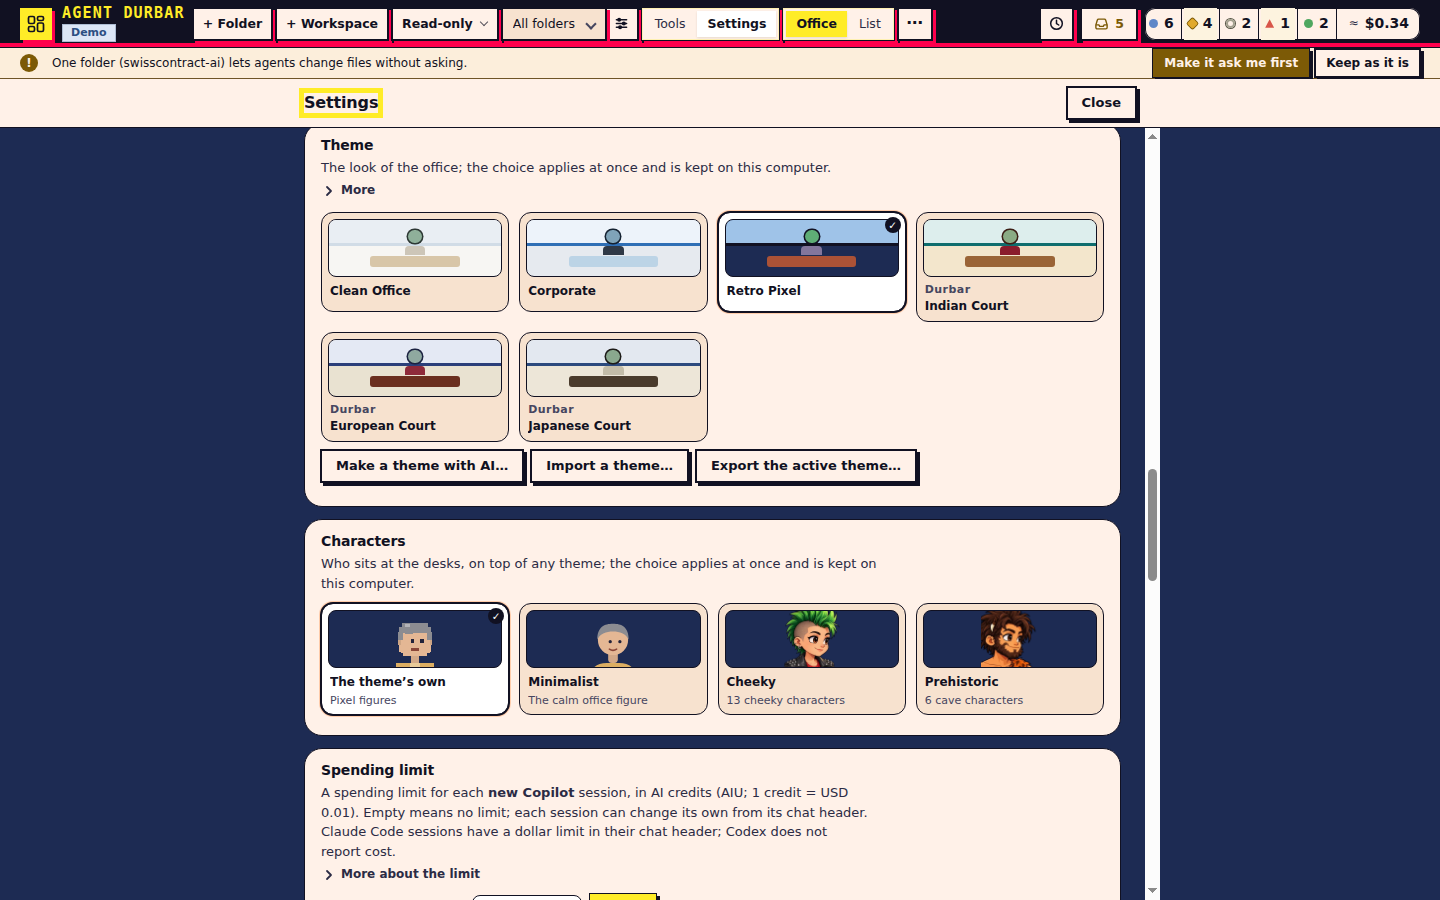
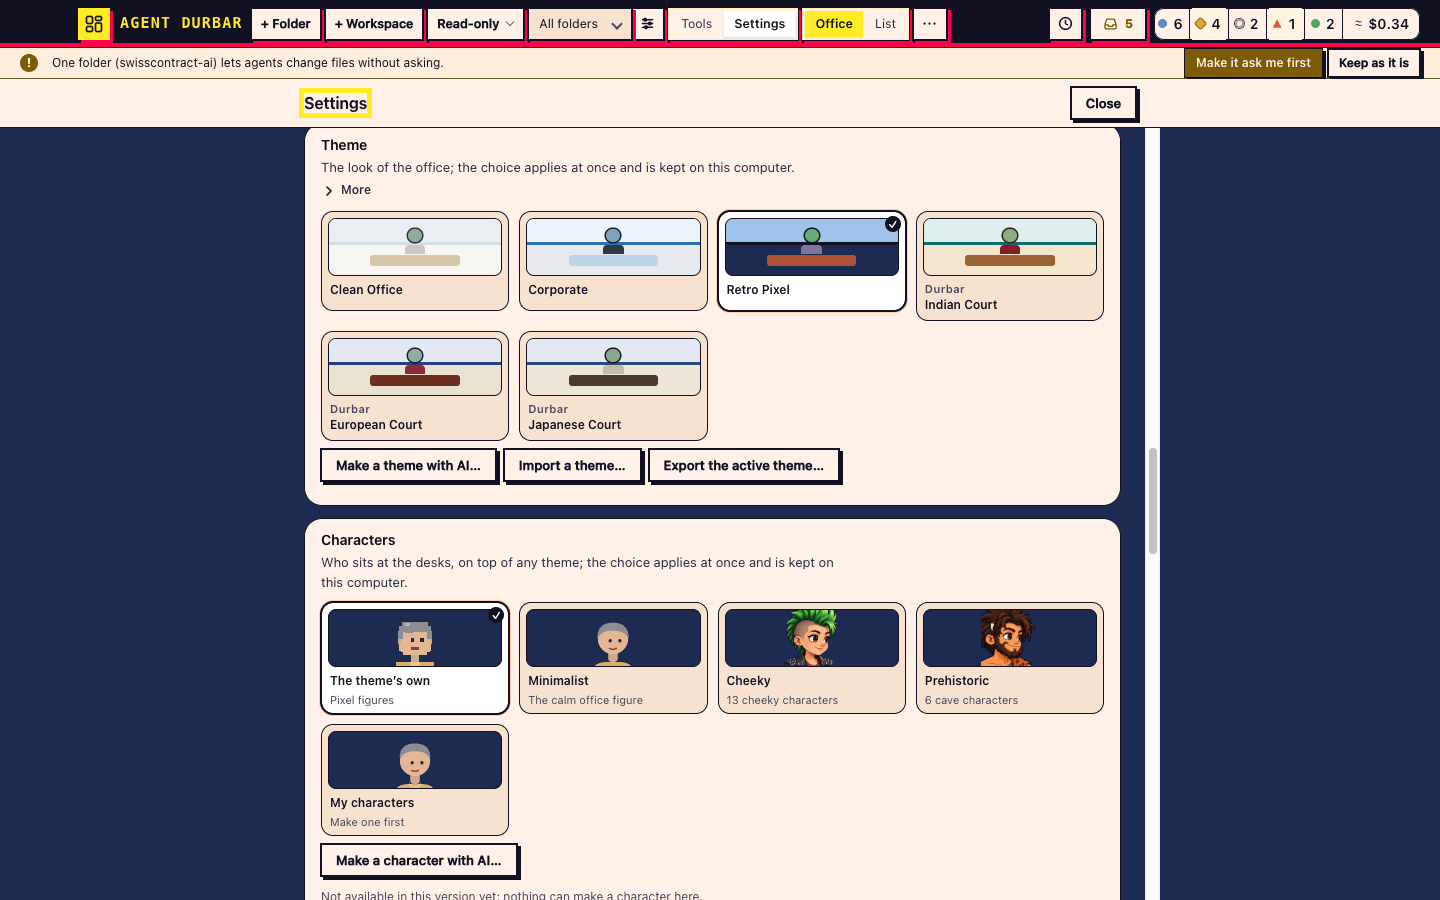
096: the maker's pictures, retaken Settings pictures and a hostile name on a full desk (T047)

diff --git a/scripts/check-charmaker.js b/scripts/check-charmaker.js
@@ -512,6 +512,11 @@ module.exports = async (ctx) => {
   await need(`[...document.querySelectorAll('#stage .desk[data-id] svg.scene')].filter(s=>s.getClientRects().length&&s.querySelector('circle[r="12.5"]')).length>=1`, 'its desks draw the plain figure');
 
   /* ---------- a hostile name: maker, list, rows, toast, tooltip ---------- */
+  // few agents: the full desk has its own tooltip
+  await H.load({ w: 1440, h: 900, ready: `document.querySelectorAll('#stage .desk[data-id]').length>=2&&document.getElementById('stage').dataset.fit`, settle: false, query: { sim: '3', density: 'full', simhelpers: '0', simmine: '1', simminename: 'hostile', characters: 'mine' } });
+  await need(`document.querySelectorAll('#stage .desk[data-id] image.crew-pic[href^="blob:"]').length>=1`, 'hostile, full desks: portraits');
+  await need(`[...document.querySelectorAll('#stage .desk:not(.card)[data-id]')].some(d=>(d.title||'').includes(${jsLiteral('Wearing ' + HOSTILE)}))`, 'hostile, full desks: the tooltip holds the name as text');
+  await noMarkup('hostile, a full desk');
   await load({ simmine: '2', simminename: 'hostile', characters: 'mine' });
   await need(`document.querySelectorAll('#stage image.crew-pic[href^="blob:"]').length>=12`, 'hostile: portraits');
   await noMarkup('hostile, the office');

diff --git a/scripts/test-crew-assets.ts b/scripts/test-crew-assets.ts
@@ -96,5 +96,5 @@ if (fs.existsSync(path.join(ROOT, 'dist', 'renderer', 'index.html'))) {
   assert.deepStrictEqual(fs.readdirSync(OUT).sort(), [...files.keys()].sort(), 'dist/renderer/crew/art holds exactly the pictures: no ASSETS.md, no prompts');
 }
 const csp = /Content-Security-Policy" content="([^"]*)"/.exec(fs.readFileSync(path.join(ROOT, 'src', 'renderer', 'index.html'), 'utf8'));
-assert.strictEqual(csp && csp[1], "default-src 'none'; script-src 'self'; style-src 'self' 'unsafe-inline'; img-src 'self' data:;", 'the CSP is unchanged (FR-057)');
+assert.strictEqual(csp && csp[1], "default-src 'none'; script-src 'self'; style-src 'self' 'unsafe-inline'; img-src 'self' data: blob:;", 'the CSP: spec 096 FR-043, FR-061 add blob: for images, for My characters; nothing else changed (FR-057)');
 console.log('crew assets tests passed (' + files.size + ' pictures)');

diff --git a/specs/096-ai-character-maker/tasks.md b/specs/096-ai-character-maker/tasks.md
@@ -56,7 +56,7 @@
 - [x] T044 [US2] Characters list: My characters value with preview, "Make one first" when empty; deleting the last character falls back with a toast. Test: `check-characters` gains the `mine` value; US2 scenario 4 [FR-040]
 - [x] T045 [US4] Manage rows: Rename, Pin to a folder…, Delete (confirm, pins removed and counted), Export… (`DURBAR_PICK`). Test: `check-charmaker` manage steps; `test:charstore` export [FR-042; US4]
 - [x] T046 Layout: `check:office` and `check:crew` with `OFFICE_CHARACTERS=mine`, 15 agents, 1440x900 and 1280x800. Test: both pass (SC-002)
-- [ ] T047 Screenshots: `docs/screenshots/096-charmaker-*.png`, `096-mycharacters-office-*.png` at both sizes via `shots:docs` (`DOC_SHOTS`). Test: look at each picture
+- [x] T047 Screenshots: `docs/screenshots/096-charmaker-*.png`, `096-mycharacters-office-*.png` at both sizes via `shots:docs` (`DOC_SHOTS`). Test: look at each picture
 
 ## Phase 5: Motion (PR 5)
 
